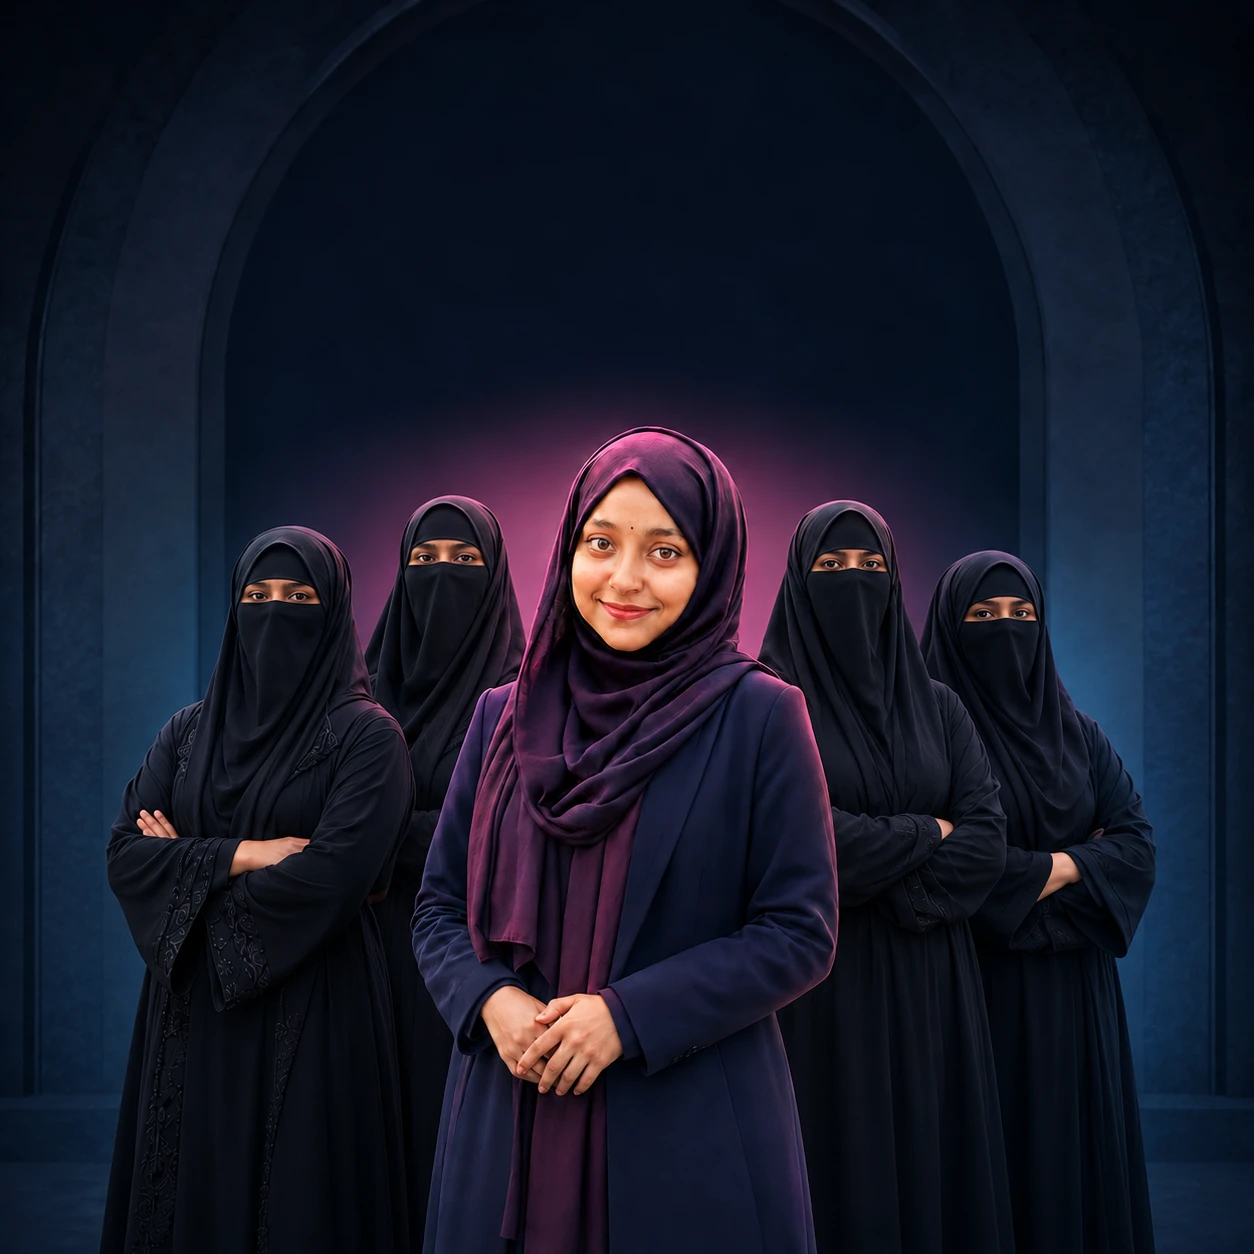
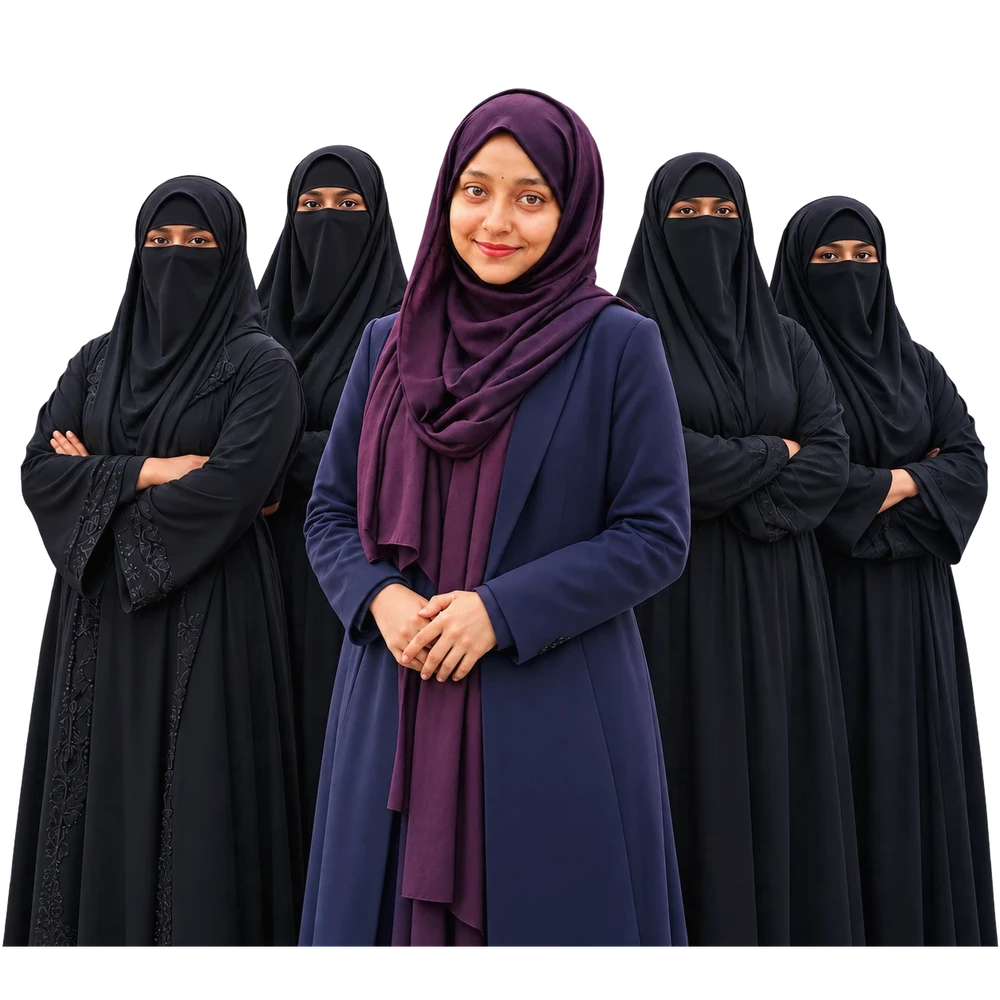
Replace hero photo with cutout version, zoomed and color-matched to theme
The new source image is a transparent-background cutout, so it's
cropped tighter around the subjects (removes empty space = zoomed in)
and squared instead of stretched/cropped like a regular photo. The
card behind it now uses a radial pink-to-blue gradient matching the
site's brand colors so the image blends into the dark theme instead
of looking like a separately pasted photo.

Claude-Session: https://claude.ai/code/session_01SKNRRLZifGHrhMzjep5CXm

diff --git a/style.css b/style.css
@@ -115,8 +115,8 @@ header.nav{position:sticky; top:0; z-index:60; background:rgba(10,8,23,.82); bac
 @keyframes spin{to{transform:rotate(360deg);}}
 .hero-visual .card{position:relative; width:56%; aspect-ratio:1/1; border-radius:36px; overflow:hidden; box-shadow:var(--shadow); border:1px solid var(--border); background:var(--surface); display:flex; align-items:center; justify-content:center; padding:14%;}
 .hero-visual .card img{width:100%; height:100%; object-fit:contain;}
-.hero-visual .card.photo{width:80%; padding:0;}
-.hero-visual .card.photo img{object-fit:cover;}
+.hero-visual .card.photo{width:82%; padding:6%; background:radial-gradient(circle at 50% 30%, rgba(243,20,123,.35), rgba(58,111,224,.25) 55%, var(--surface) 85%);}
+.hero-visual .card.photo img{object-fit:contain; filter:drop-shadow(0 18px 30px rgba(0,0,0,.45));}
 .hero-visual .float{position:absolute; background:var(--surface); border:1px solid var(--border); border-radius:16px; padding:12px 16px; box-shadow:var(--shadow); font-size:.84rem; font-weight:700; display:flex; align-items:center; gap:10px; color:var(--ink);}
 .hero-visual .float.f1{top:4%; left:0;} .hero-visual .float.f2{bottom:6%; right:0;}
 .dot{width:9px; height:9px; border-radius:50%; background:var(--grad); flex:none;}
